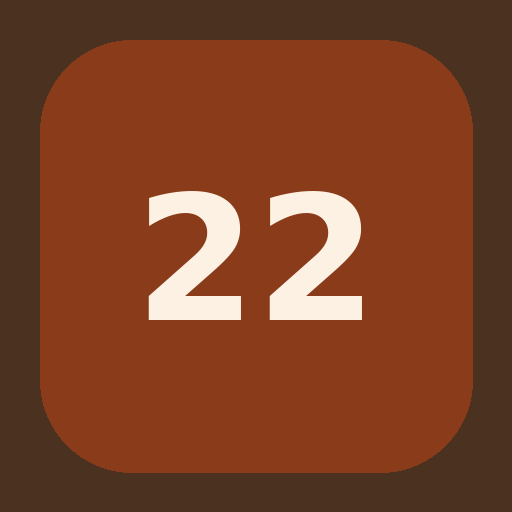
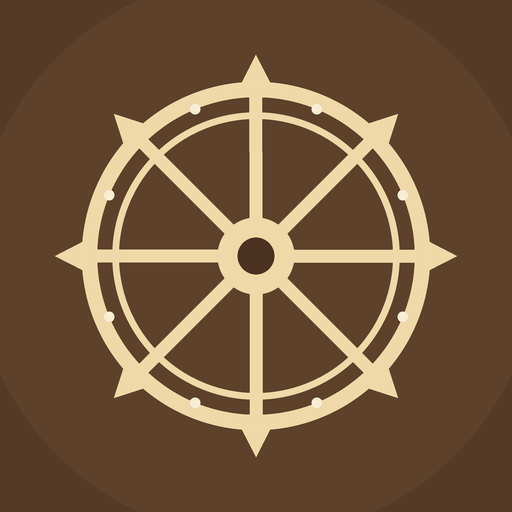
Add files via upload

diff --git a/sw.js b/sw.js
@@ -1,4 +1,4 @@
-const CACHE_NAME = "quyen22-cache-v29";
+const CACHE_NAME = "quyen22-cache-v30";
 const ASSETS = [
   "./",
   "./index.html",